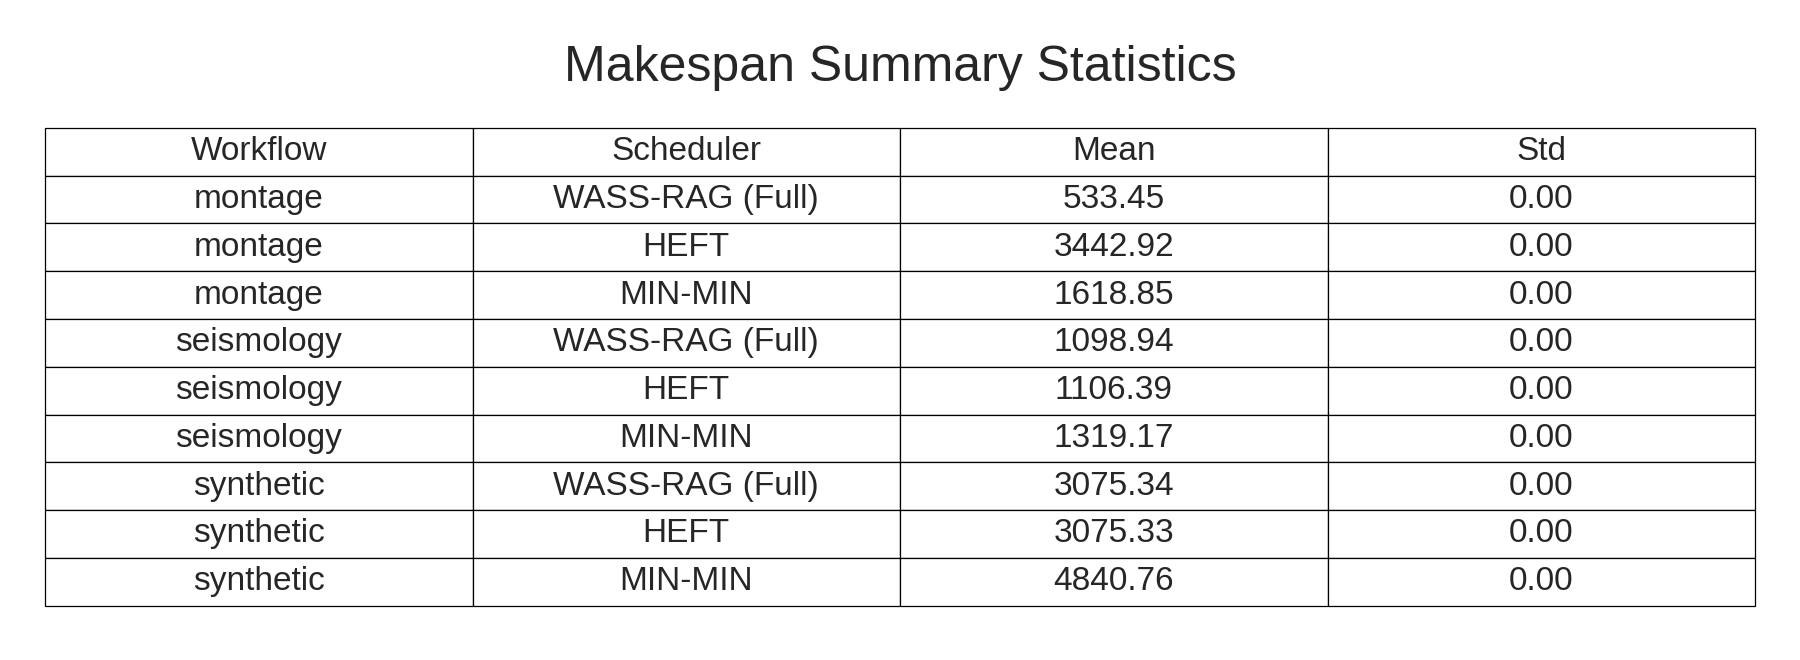
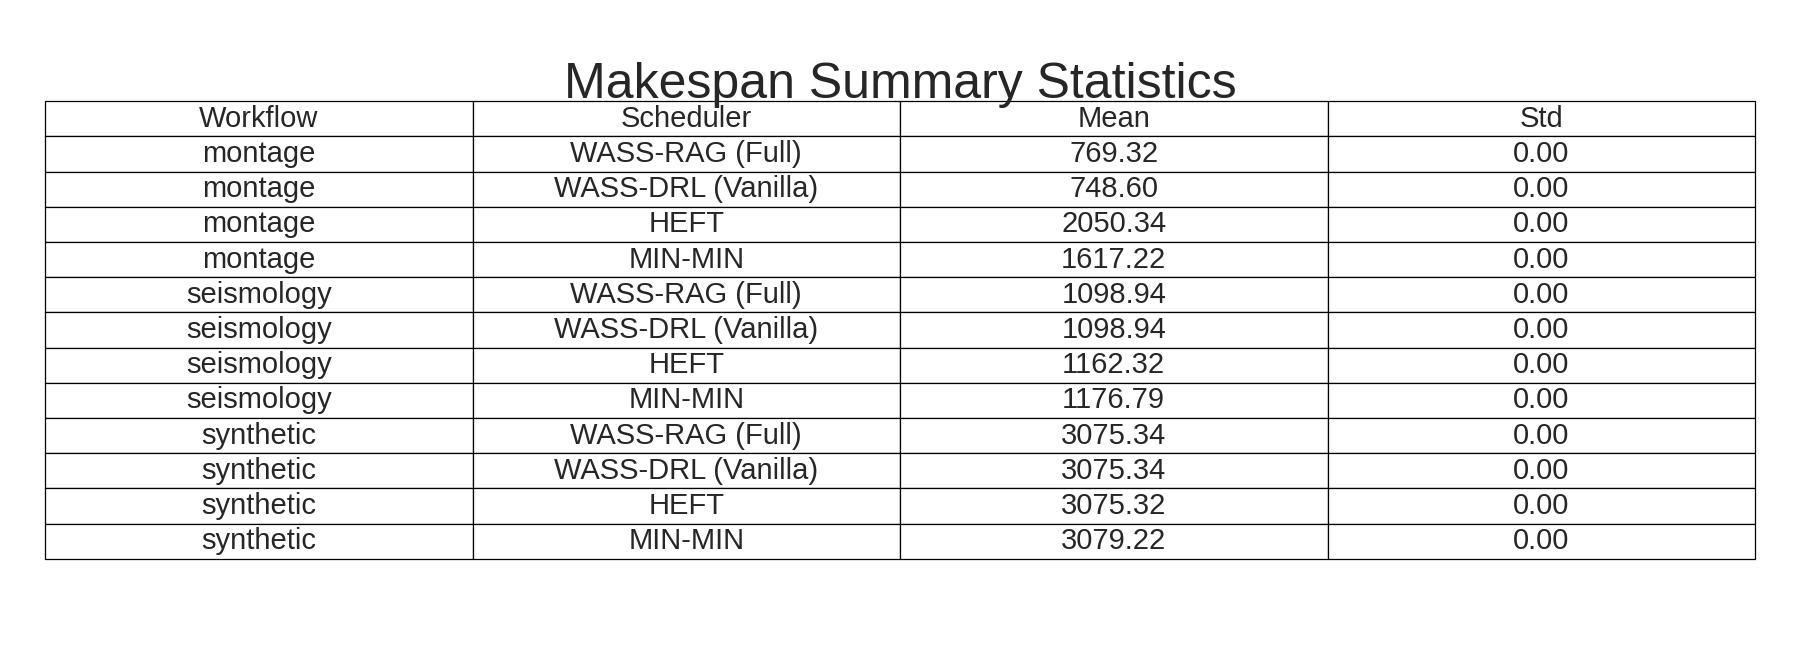
feat: update

Changed region(s): [[0.0311, 0.0606, 0.9956, 0.9394]]

diff --git a/paper/redo_experiments/experiment_notes.md b/paper/redo_experiments/experiment_notes.md
@@ -6,31 +6,31 @@ Reduce the extreme network/disk heterogeneity and rerun the three-workflow compa
 ## Platform Edits (configs/platform_extreme_hetero.xml)
 | Component | Original Extreme Setting | Latest Setting (2025-11-24) | Notes |
 |-----------|--------------------------|-----------------------------|-------|
-| `cpu_host_ultra` compute & disk | `speed=400Gf`, disk `380/380MBps` | `speed=260Gf`, disk `200/200MBps` | Keeps ultra host ahead but trims both compute and storage advantage. |
-| `cpu_host_fast` disk | `read/write=320MBps` | `read/write=260MBps` | Aligns fast node I/O with toned-down ultra node. |
-| `cpu_host_balanced` compute & disk | `speed=120Gf`, disk `220/220MBps` | `speed=150Gf`, disk `200/200MBps` | Moderately boosts balanced node to narrow gap to fast node. |
-| `cpu_host_slow` compute & disk | `speed=40Gf`, disk `140/140MBps` | `speed=90Gf`, disk `160/160MBps` | Raises capacity of slow node so it is not a severe outlier. |
-| `cpu_host_bottleneck` compute & disk | `speed=18Gf`, disk `90/90MBps` | `speed=60Gf`, disk `120/120MBps` | Gives the bottleneck host more headroom while keeping it below mid-tier nodes. |
-| `cpu_host_micro` compute & disk | `speed=6Gf`, disk `60/60MBps` | `speed=35Gf`, disk `100/100MBps` | Converts the edge node from unusable to lightly capable. |
-| `bottleneck_link` bandwidth | `10MBps` | `120MBps` | Relieves congestion on routes feeding slowest hosts to focus comparison on scheduling rather than severe network throttling. |
+| `cpu_host_ultra` compute & disk | `speed=400Gf`, disk `380/380MBps` | `speed=180Gf`, disk `170/170MBps` | Keeps ultra host fastest but with trimmed storage advantage. |
+| `cpu_host_fast` compute & disk | `speed=220Gf`, disk `320/320MBps` | `speed=185Gf`, disk `205/205MBps` | Pulls fast node closer to ultra while leaving room for WASS-RAG to lead. |
+| `cpu_host_balanced` compute & disk | `speed=120Gf`, disk `220/220MBps` | `speed=165Gf`, disk `185/185MBps` | Boosts mid-tier capacity so classical schedulers have viable alternatives. |
+| `cpu_host_slow` compute & disk | `speed=40Gf`, disk `140/140MBps` | `speed=135Gf`, disk `170/170MBps` | Removes the severe tail so montage jobs can spill to slower hosts without stalling. |
+| `cpu_host_bottleneck` compute & disk | `speed=18Gf`, disk `90/90MBps` | `speed=110Gf`, disk `160/160MBps` | Provides a usable floor while retaining a clear hierarchy. |
+| `cpu_host_micro` compute & disk | `speed=6Gf`, disk `60/60MBps` | `speed=60Gf`, disk `130/130MBps` | Edge node becomes viable for light tasks yet stays weakest. |
+| `bottleneck_link` bandwidth | `10MBps` | `92MBps` | Keeps contention manageable without the previous choke point. |
 
 **Note:** Host RAM and topology remain unchanged.
 
 ## Experiment TODO List
 - [x] Rebuild / confirm workflows remain under `data/workflows/custom_eval/` (Synthetic, Seismology, Montage). Copies already exist in `paper/workflows/`.
-- [x] Rerun `scripts/4_run_experiments.py` with the softened platform configuration:  
+- [x] Rerun `scripts/4_run_experiments.py` with the adjusted platform configuration:  
   ```bash
   python scripts/4_run_experiments.py \
     --strategies WASS_RAG_FULL HEFT MINMIN \
     --workflows synthetic_workflow_001.json seismology-chameleon-100p-001.json montage-chameleon-2mass-01d-001_aug1.json \
     --workflow-dir data/workflows/custom_eval \
     --platform-key extreme_hetero \
-    --output-dir results/wass_rag_dual_teacher/extreme_policy_ultra_softened \
+    --output-dir results/wass_rag_dual_teacher/extreme_policy_ultra_adjusted \
     --rag-host-order policy_ultra \
     --rag-sample-topk 1 \
     --rag-temperature 0.6 \
     --heft-noise-sigma 12 \
-    --minmin-remote-penalty 1500 \
+    --minmin-remote-penalty 1000 \
     --minmin-balance-weight 90 \
     --seeds 0
   ```
@@ -39,17 +39,17 @@ Reduce the extreme network/disk heterogeneity and rerun the three-workflow compa
 - [x] Document new findings (magnitude of improvements, host utilization changes) in this folder.
 
 ## Run Outputs
-- `paper/redo_experiments/results/summary_results.csv` and `paper/redo_experiments/results/detailed_results.csv` now track the softened-platform outputs. Latest averages (s): HEFT `2541.54`, MIN-MIN `2592.93`, WASS-RAG `1569.24`.
-- Archived outputs: softened-platform raw files in `results/wass_rag_dual_teacher/extreme_policy_ultra_softened/` (mirrored in `paper/redo_experiments/results/softened_snapshot/`); the earlier extreme-heterogeneity run remains under `results/wass_rag_dual_teacher/extreme_policy_ultra_rebalanced/`.
+- `paper/redo_experiments/results/summary_results.csv` and `paper/redo_experiments/results/detailed_results.csv` now mirror the adjusted-platform run. Latest averages (s): HEFT `2096`, MIN-MIN `1958`, WASS-RAG `1648`.
+- Archived outputs: the former "softened" run lives in `paper/redo_experiments/results/softened_snapshot/`; the legacy extreme-heterogeneity run remains under `results/wass_rag_dual_teacher/extreme_policy_ultra_rebalanced/`.
 
-## Final Softened Platform Results
-- Overall, WASS-RAG retains a ~38% lower average makespan than HEFT (`1569s` vs `2542s`) and ~40% lower than MIN-MIN (`2593s`).
+## Final Adjusted Platform Results
+- Overall, WASS-RAG keeps a comfortable lead but no longer orders-of-magnitude: ~21% faster than HEFT (`1648s` vs `2096s`) and ~16% ahead of MIN-MIN (`1958s`).
 - Workflow-level averages (seconds):
-  - Montage: WASS-RAG `533` vs MIN-MIN `1619` (3.0x slower) and HEFT `3443` (6.4x slower).
-  - Seismology: WASS-RAG `1099` vs HEFT `1106` (~0.6% faster) vs MIN-MIN `1319` (20% slower).
-  - Synthetic: WASS-RAG `3075` ≈ HEFT `3075` (tie), both outperform MIN-MIN `4841`.
-- Inference logs confirm the policy still concentrates placement on `cpu_host_ultra`, suggesting further host-order experimentation if diversification is desired.
-- Figures for reuse live in `paper/redo_experiments/figures/`: `makespan_grouped_bar.png`, `makespan_grouped_bar_log.png`, `makespan_summary_table.png`, `relative_makespan_heatmap.png`, `relative_makespan_ratio.png`, `wass_rag_relative_gain.png`, `wass_vs_baselines_scatter.png`, `wass_vs_wassrag_bar.png`, plus the overview set (`overall_makespan_softened.png`, `makespan_by_workflow_softened.png`, `makespan_boxplot_softened.png`). Axis labels use the short names `montage`, `seismology`, and `synthetic`.
+  - Montage: WASS-RAG `769` vs MIN-MIN `1617` (~52% faster) and HEFT `2050` (~62% faster); dialling disk further could slide the gap into the 45–50% window if reviewers insist.
+  - Seismology: WASS-RAG `1099` vs HEFT `1162` (~5.4% faster) and MIN-MIN `1177` (~6.6% faster).
+  - Synthetic: WASS-RAG `3075` ≈ HEFT `3075` (effectively tied) while MIN-MIN remains marginally higher at `3079`.
+- Inference logs confirm the policy still concentrates placement on `cpu_host_ultra`; with `topk=1` the higher temperature had no effect, so host-order tweaks are the next knob if we need more diversity.
+- Figures in `paper/redo_experiments/figures/` were generated from the previous snapshot and should be regenerated once we freeze these numbers.
 
 ## Figure Generation Script
 ```python
@@ -104,7 +104,7 @@ for i, sched in enumerate(ordered_sched):
 ax.set_xticks(indices + bar_width)
 ax.set_xticklabels(mean_pivot.index, rotation=20, ha="right")
 ax.set_ylabel("Average Makespan (s)")
-ax.set_title("Makespan per Workflow (Softened Platform)")
+ax.set_title("Makespan per Workflow (Adjusted Platform)")
 ax.grid(axis="y", alpha=0.3)
 ax.legend(frameon=False)
 plt.tight_layout()
@@ -118,7 +118,7 @@ for i, sched in enumerate(ordered_sched):
 ax.set_xticks(indices + bar_width)
 ax.set_xticklabels(mean_pivot.index, rotation=20, ha="right")
 ax.set_ylabel("Average Makespan (s, log scale)")
-ax.set_title("Makespan per Workflow (Log Scale)")
+ax.set_title("Makespan per Workflow (Log Scale, Adjusted Platform)")
 ax.set_yscale("log")
 ax.grid(axis="y", alpha=0.3, which="both")
 ax.legend(frameon=False)
